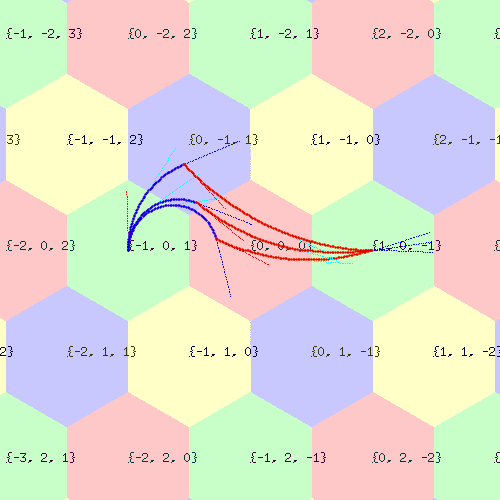
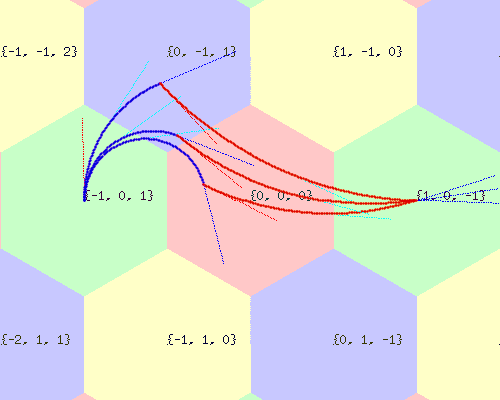
still nothing

diff --git a/example/drawPath_test.go b/example/drawPath_test.go
@@ -58,8 +58,8 @@ func TestSmoothCurveDrawing(t *testing.T) {
 
 func TestBiarcDrawing(t *testing.T) {
 	dd := draw.DefaultDecorator{}
-	img := image.NewRGBA(image.Rect(0, 0, 500, 500))
-	cc := draw.NewCamera(img, 0.1, pos.Origin())
+	img := image.NewRGBA(image.Rect(0, 0, 500, 400))
+	cc := draw.NewCamera(img, 0.15, pos.Origin())
 
 	cc.Grid(dd)
 
